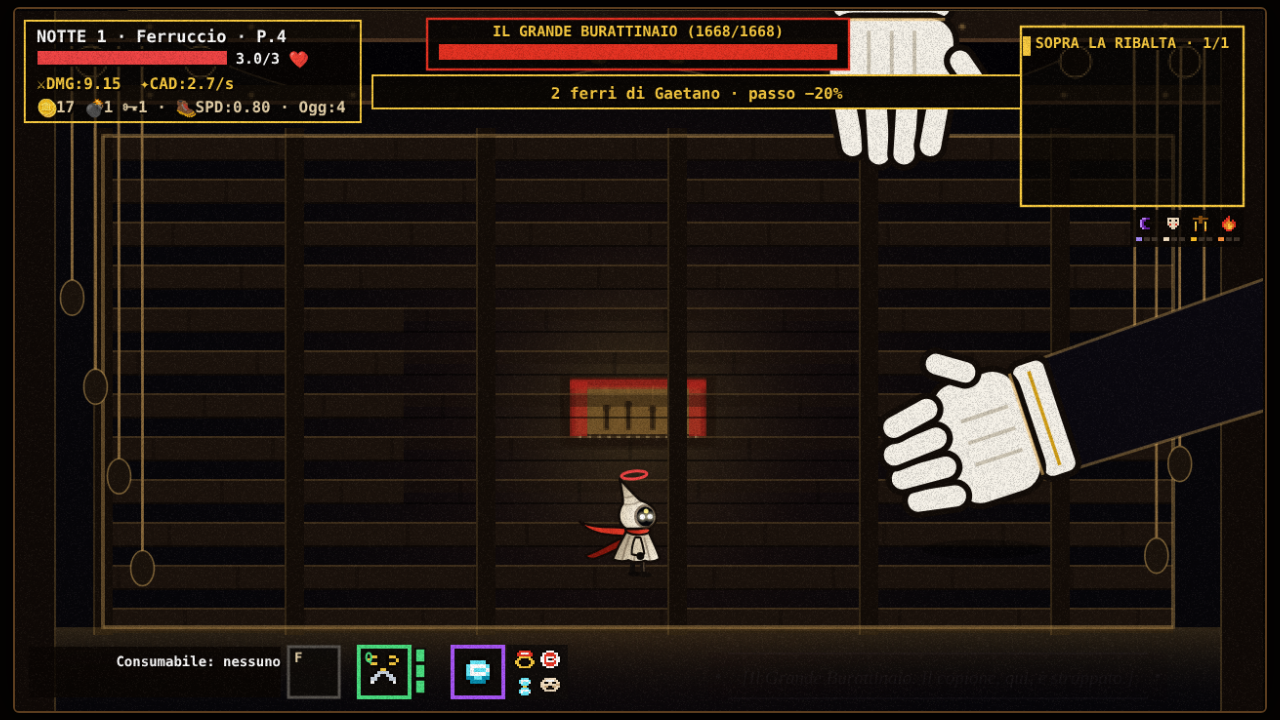
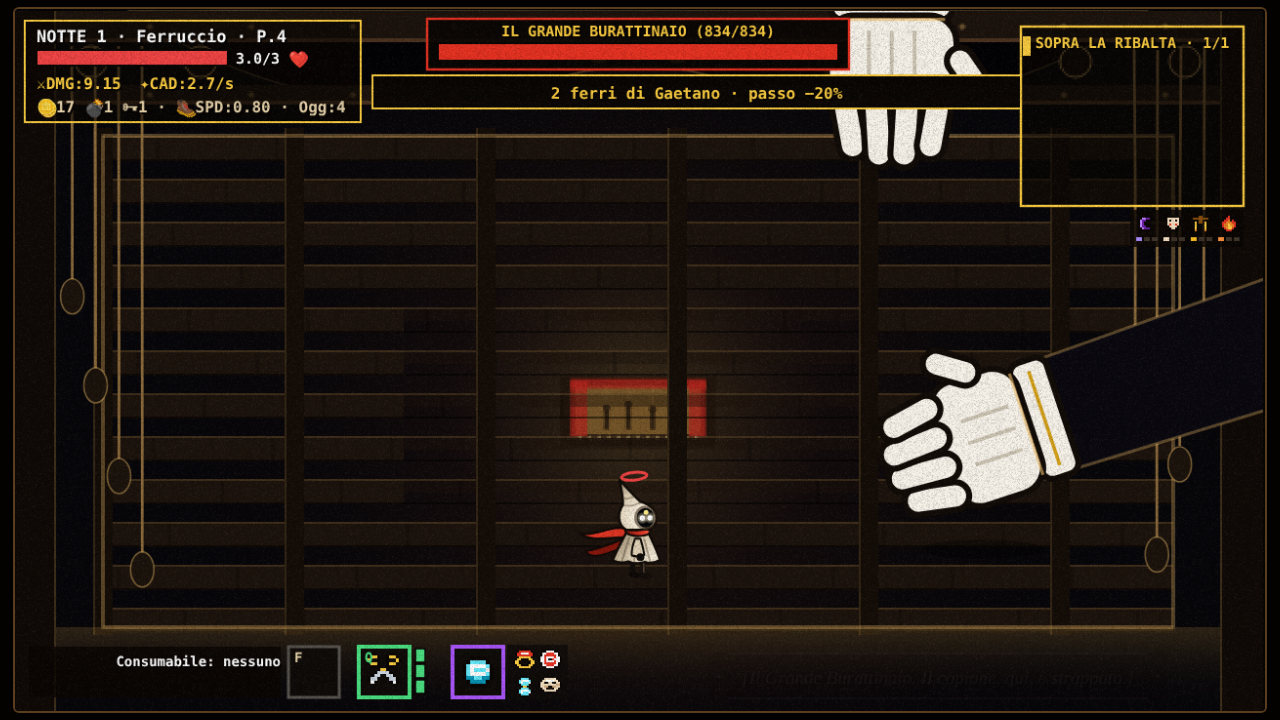
balance(teatro): h4 Burattinaio scalato a metà della forza della dotazione (100-115 s stimati)
Claude-Session: https://claude.ai/code/session_01F5x6kDAQ4qaiYDiFx9jQb5

Changed region(s): [[0.4375, 0.6417, 0.5312, 0.7944], [0.375, 0.0306, 0.625, 0.0611], [0.875, 0.3667, 0.9062, 0.4278]]

diff --git a/gioco/teatro/h4-ritorno-piazza.js b/gioco/teatro/h4-ritorno-piazza.js
@@ -36,12 +36,15 @@ const RITORNO_H4 = Object.freeze({
   uscita: Object.freeze({ x: 112, y: 128, raggio: 42 }),
   /**
    * Scala del Burattinaio. forza = (danno × colpi al secondo) della dotazione / quella di Ferruccio a mani nude
-   * (3,50 × 2,73), tenuta fra forzaMin e forzaMax. Vita delle parti × forza × ciclo; il ciclo conta
+   * (3,50 × 2,73 ≈ 9,6, lo stesso DPS 0 oggetti misurato da tools/sim-bilancio-teatro.js), tenuta fra forzaMin e
+   * forzaMax. Vita delle parti × max(1, forza × perForza) × ciclo; il ciclo conta
    * 1 + perCiclo × (ciclo − 1) fino a cicloMax. Ritmo: pausa fra i colpi × (1 − ritmoPerForza × (forza − 1)
-   * − ritmoPerCiclo × (ciclo − 1)), mai sotto ritmoMin. Tarata con tools/sim-bilancio-teatro.js (vedi report h4).
+   * − ritmoPerCiclo × (ciclo − 1)), mai sotto ritmoMin. Taratura (modello della sim: tempo = vita / (DPS × 0,55)
+   * + 30 s di intermezzi + marionette): perForza 0,5 → 100-115 s da DPS 21 (6-7 oggetti) a DPS 43 (tetto);
+   * sotto forza 2 il Burattinaio resta quello di oggi (650).
    */
   scala: Object.freeze({
-    dpsRiferimento: 3.5 * 2.73, forzaMin: 1, forzaMax: 4.5,
+    dpsRiferimento: 3.5 * 2.73, forzaMin: 1, forzaMax: 4.5, perForza: 0.5,
     perCiclo: 0.25, cicloMax: 2,
     ritmoPerForza: 0.06, ritmoPerCiclo: 0.08, ritmoMin: 0.6,
   }),
@@ -173,7 +176,7 @@ function scalaBurattinaioH4(forza, ciclo) {
   const S = RITORNO_H4.scala;
   const c = Math.max(1, Math.floor(ciclo || 1));
   const moltCiclo = Math.min(S.cicloMax, 1 + S.perCiclo * (c - 1));
-  const molt = forza * moltCiclo;
+  const molt = Math.max(1, forza * S.perForza) * moltCiclo;
   const ritmo = Math.max(S.ritmoMin, 1 - S.ritmoPerForza * (forza - 1) - S.ritmoPerCiclo * (c - 1));
   const base = BURATTINAIO_D1.vita;
   const vita = {};

diff --git a/tools/qa-teatro-ritorno-piazza.js b/tools/qa-teatro-ritorno-piazza.js
@@ -151,8 +151,8 @@ const foto = (n) => `${prefisso}-${n}.png`;
 
   // ---- 4. Scala: dotazione e ciclo, limiti ----
   const sc = await p.evaluate(() => { const I = window.__teatro.interni.ritornoH4; const t = (f, c) => Object.values(I.scala(f, c).vita).reduce((a, b) => a + b * 1, 0);
-    return { nudo: t(1, 1), forte: t(3, 1), ciclo2: t(3, 2), ciclo9: t(3, 9), ciclo99: t(3, 99), ritmo9: I.scala(4.5, 9).ritmo }; });
-  ok('scala-cresce-con-dotazione', sc.forte > sc.nudo, sc);
+    return { nudo: t(1, 1), debole: t(1.8, 1), forte: t(3, 1), ciclo2: t(3, 2), ciclo9: t(3, 9), ciclo99: t(3, 99), ritmo9: I.scala(4.5, 9).ritmo }; });
+  ok('scala-cresce-con-dotazione', sc.forte > sc.nudo && sc.debole === sc.nudo && sc.nudo === 455, sc); // somma della tabella (mano1+mano2+mano3+forbici); 650 col doppio delle mani
   ok('scala-cresce-col-ciclo-con-tetto', sc.ciclo2 > sc.forte && sc.ciclo9 === sc.ciclo99 && sc.ritmo9 >= 0.6, sc);
 
   // ---- 5. Quattro personaggi, morte normale, zero ferri ----
@@ -204,7 +204,7 @@ const foto = (n) => `${prefisso}-${n}.png`;
   await p.evaluate(() => { b8.cart = null; fineFucinaB8({ scelta: 'sali', cx: {} }); window.__teatro.interni.ritornoH4.sali(); });
   await passi(p, 5);
   h = await H();
-  ok('ciclo2-boss-piu-duro', h.scontro && h.scontro.ciclo === 2 && h.scontro.molt > h.scontro.forza, h.scontro && { molt: h.scontro.molt, forza: h.scontro.forza });
+  ok('ciclo2-boss-piu-duro', h.scontro && h.scontro.ciclo === 2 && h.scontro.molt > (await p.evaluate((f) => window.__teatro.interni.ritornoH4.scala(f, 1).molt, h.scontro.forza)), h.scontro && { molt: h.scontro.molt, forza: h.scontro.forza });
   // Ricomincia notte dalla piazza chiude la notte
   await avvio('ferruccio', true);
   await finoALuciana();
